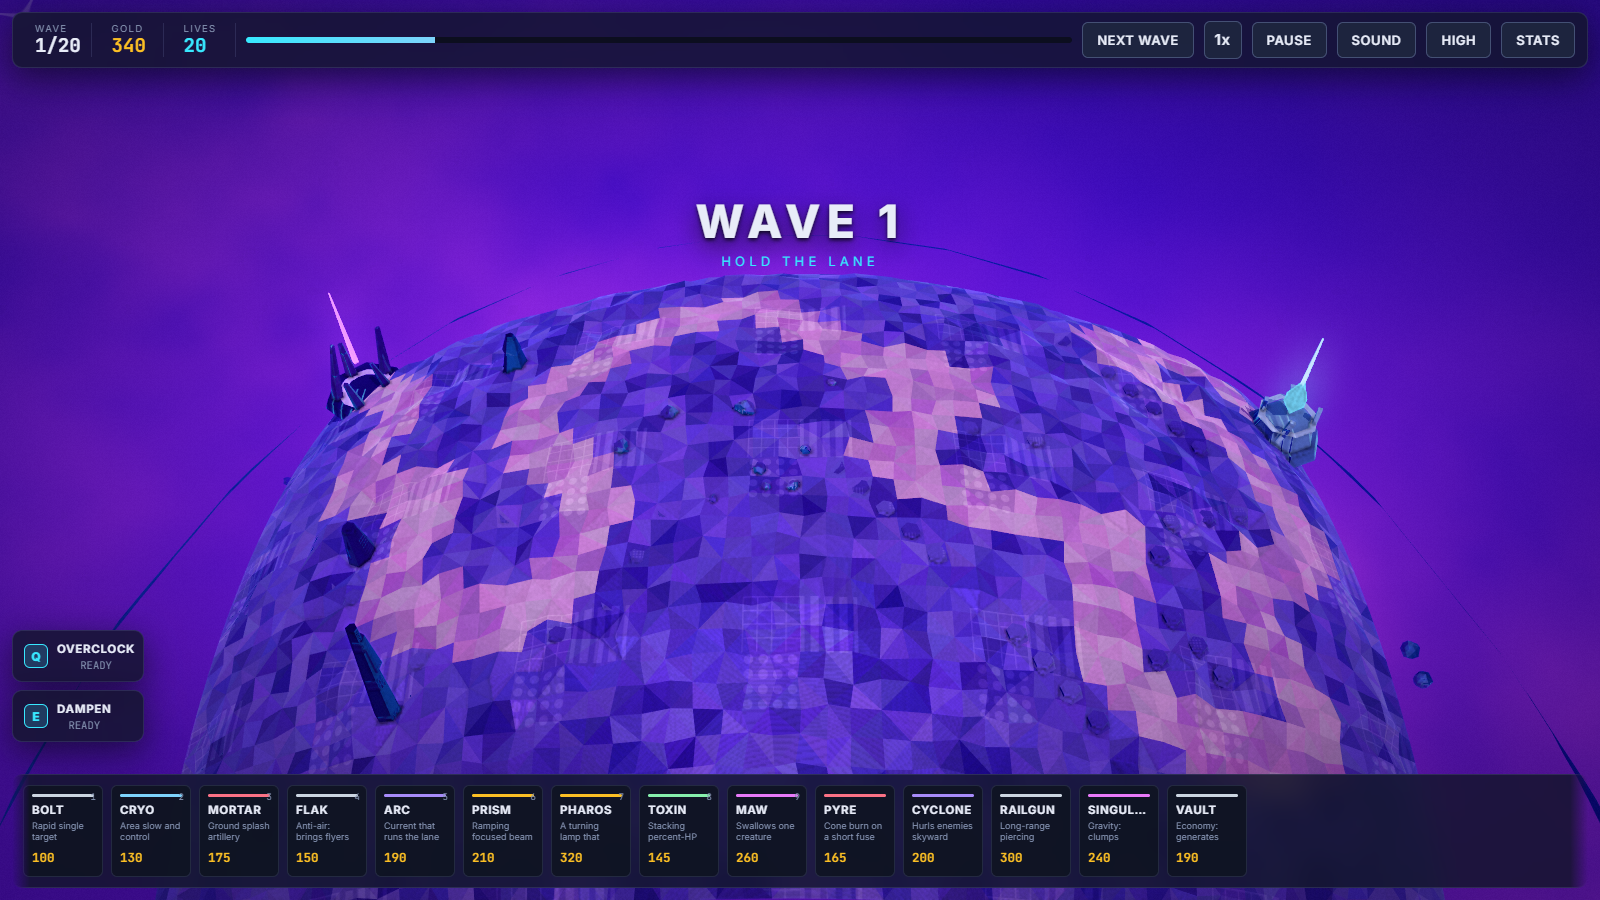
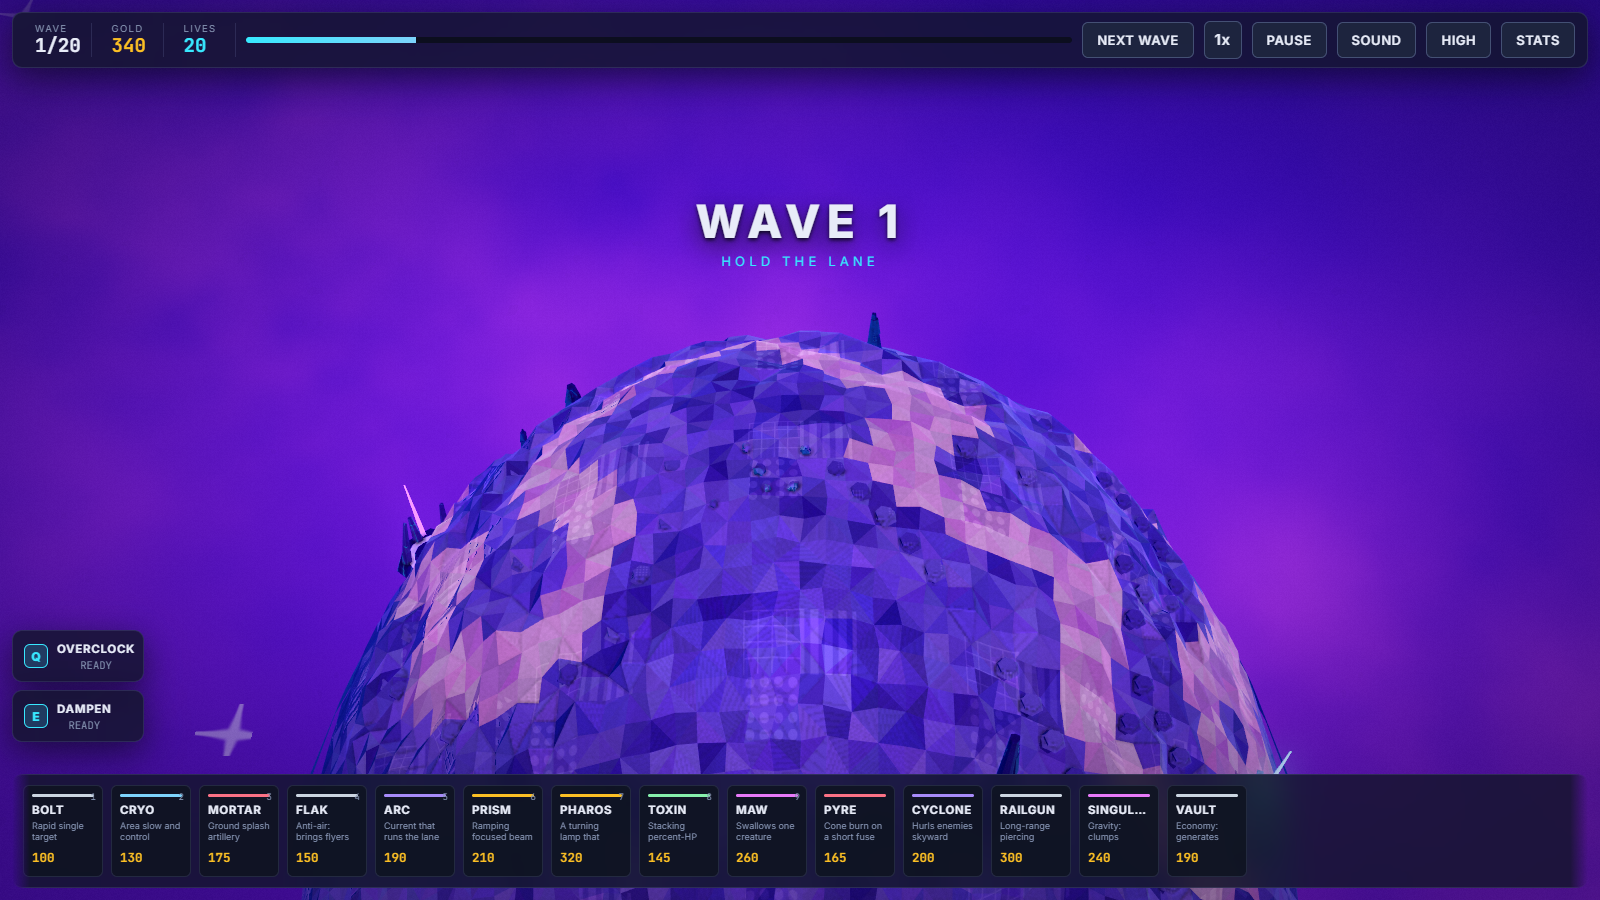
AETHER HALFWORLD v2: true hemisphere - world radius 96 (sag 48, parabola matches sphere), plate wraps a small planet, 4 rim gates, 28-waypoint serpentine, world bowl closes at planet equator, rocks/relief rescaled

diff --git a/cosmic-aether/cosmic-aether.html b/cosmic-aether/cosmic-aether.html
@@ -6005,7 +6005,7 @@ var TERRAIN = (function () {
        paraboloid matching the height field's sag exactly minus a fixed
        underhang, so the world surface is guaranteed below the plate
        everywhere and the shoreline is seamless by construction. */
-    var worldR = Math.max(halfW, halfH) * 1.9;
+    var worldR = Math.max(def.planetR || 300, Math.max(halfW, halfH)) * 1.15;
     function worldY(r) { return -(r * r) / (2.0 * SAG_R) - 0.30; }
     var worldB = MESH.builder('world:' + seed);
     var wSides = 30;
@@ -6042,7 +6042,7 @@ var TERRAIN = (function () {
       for (var vi = 0; vi < Vd.length; vi += 12) {
         var px = Vd[vi], py = Vd[vi + 1], pz = Vd[vi + 2];
         var r = Math.hypot(px, pz);
-        var m = U.smoothstep(boardR, boardR * 1.5, r) * (1.0 - U.smoothstep(worldR * 0.96, worldR * 1.06, r));
+        var m = U.smoothstep(boardR, boardR * 1.25, r) * (1.0 - U.smoothstep(worldR * 0.9, worldR * 1.02, r));
         if (m > 0.001) {
           var nl = wnoise(px, pz);
           Vd[vi + 1] = py + nl * 2.8 * m;
@@ -6077,8 +6077,8 @@ var TERRAIN = (function () {
       var wcol = ['#1e1746', '#171138', '#241b52'];
       for (var wr = 0; wr < 26; wr++) {
         var anga = wrRng() * U.TAU;
-        var rr = Math.max(halfW, halfH) * (1.06 + wrRng() * 0.85);
-        if (rr > worldR * 0.9) continue;
+        var rr = Math.max(halfW, halfH) * (1.04 + wrRng() * 0.30);
+        if (rr > worldR * 0.92) continue;
         var rx = Math.cos(anga) * rr, rz = Math.sin(anga) * rr * 0.72;
         var rs = 0.8 + wrRng() * 2.2;
         var ry = worldY(rr) - 0.4;
@@ -6931,13 +6931,14 @@ var DATA = (function () {
     {
       id: 'halfworld', name: 'HALFWORLD', sub: 'Half a sphere, one road',
       cell: 3.2, gw: 56, gh: 34, pathWidth: 4.2, decor: 110, spires: 12,
-      difficulty: 2, sagR: 120, planetR: 150,
-      blurb: 'A massive expedition carved across half the world. Three gates feed one winding highway; two exits wait at the far rim.',
+      difficulty: 2, sagR: 48, planetR: 96,
+      blurb: 'A hemisphere rolled into one expedition: extreme world curvature, four gates feeding one serpentine, exits on the far shoulder.',
       waypoints: [[-78, 0, -44], [-64, 0, -30], [-70, 0, -12], [-52, 0, -2], [-56, 0, 14],
                   [-36, 0, 20], [-28, 0, 6], [-40, 0, -14], [-24, 0, -30], [-6, 0, -36],
                   [8, 0, -22], [24, 0, -18], [12, 0, -2], [26, 0, 6], [44, 0, 8],
                   [38, 0, 24], [52, 0, 34], [70, 0, 30], [62, 0, 10], [78, 0, -2],
-                  [68, 0, -24], [50, 0, -40], [72, 0, -46], [84, 0, -34]]
+                  [68, 0, -24], [50, 0, -40], [72, 0, -46], [84, 0, -34],
+                  [80, 0, -18], [72, 0, 2], [80, 0, 14], [70, 0, 26]]
     }
   ];
 

diff --git a/cosmic-aether/js/06-terrain.js b/cosmic-aether/js/06-terrain.js
@@ -388,7 +388,7 @@ var TERRAIN = (function () {
        paraboloid matching the height field's sag exactly minus a fixed
        underhang, so the world surface is guaranteed below the plate
        everywhere and the shoreline is seamless by construction. */
-    var worldR = Math.max(halfW, halfH) * 1.9;
+    var worldR = Math.max(def.planetR || 300, Math.max(halfW, halfH)) * 1.15;
     function worldY(r) { return -(r * r) / (2.0 * SAG_R) - 0.30; }
     var worldB = MESH.builder('world:' + seed);
     var wSides = 30;
@@ -425,7 +425,7 @@ var TERRAIN = (function () {
       for (var vi = 0; vi < Vd.length; vi += 12) {
         var px = Vd[vi], py = Vd[vi + 1], pz = Vd[vi + 2];
         var r = Math.hypot(px, pz);
-        var m = U.smoothstep(boardR, boardR * 1.5, r) * (1.0 - U.smoothstep(worldR * 0.96, worldR * 1.06, r));
+        var m = U.smoothstep(boardR, boardR * 1.25, r) * (1.0 - U.smoothstep(worldR * 0.9, worldR * 1.02, r));
         if (m > 0.001) {
           var nl = wnoise(px, pz);
           Vd[vi + 1] = py + nl * 2.8 * m;
@@ -460,8 +460,8 @@ var TERRAIN = (function () {
       var wcol = ['#1e1746', '#171138', '#241b52'];
       for (var wr = 0; wr < 26; wr++) {
         var anga = wrRng() * U.TAU;
-        var rr = Math.max(halfW, halfH) * (1.06 + wrRng() * 0.85);
-        if (rr > worldR * 0.9) continue;
+        var rr = Math.max(halfW, halfH) * (1.04 + wrRng() * 0.30);
+        if (rr > worldR * 0.92) continue;
         var rx = Math.cos(anga) * rr, rz = Math.sin(anga) * rr * 0.72;
         var rs = 0.8 + wrRng() * 2.2;
         var ry = worldY(rr) - 0.4;

diff --git a/cosmic-aether/js/08-data.js b/cosmic-aether/js/08-data.js
@@ -407,13 +407,14 @@ var DATA = (function () {
     {
       id: 'halfworld', name: 'HALFWORLD', sub: 'Half a sphere, one road',
       cell: 3.2, gw: 56, gh: 34, pathWidth: 4.2, decor: 110, spires: 12,
-      difficulty: 2, sagR: 120, planetR: 150,
-      blurb: 'A massive expedition carved across half the world. Three gates feed one winding highway; two exits wait at the far rim.',
+      difficulty: 2, sagR: 48, planetR: 96,
+      blurb: 'A hemisphere rolled into one expedition: extreme world curvature, four gates feeding one serpentine, exits on the far shoulder.',
       waypoints: [[-78, 0, -44], [-64, 0, -30], [-70, 0, -12], [-52, 0, -2], [-56, 0, 14],
                   [-36, 0, 20], [-28, 0, 6], [-40, 0, -14], [-24, 0, -30], [-6, 0, -36],
                   [8, 0, -22], [24, 0, -18], [12, 0, -2], [26, 0, 6], [44, 0, 8],
                   [38, 0, 24], [52, 0, 34], [70, 0, 30], [62, 0, 10], [78, 0, -2],
-                  [68, 0, -24], [50, 0, -40], [72, 0, -46], [84, 0, -34]]
+                  [68, 0, -24], [50, 0, -40], [72, 0, -46], [84, 0, -34],
+                  [80, 0, -18], [72, 0, 2], [80, 0, 14], [70, 0, 26]]
     }
   ];
 
